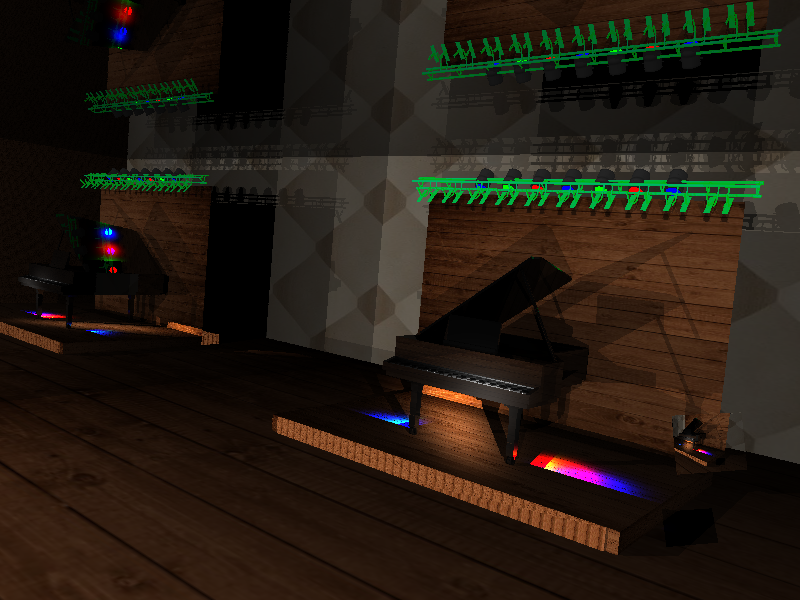
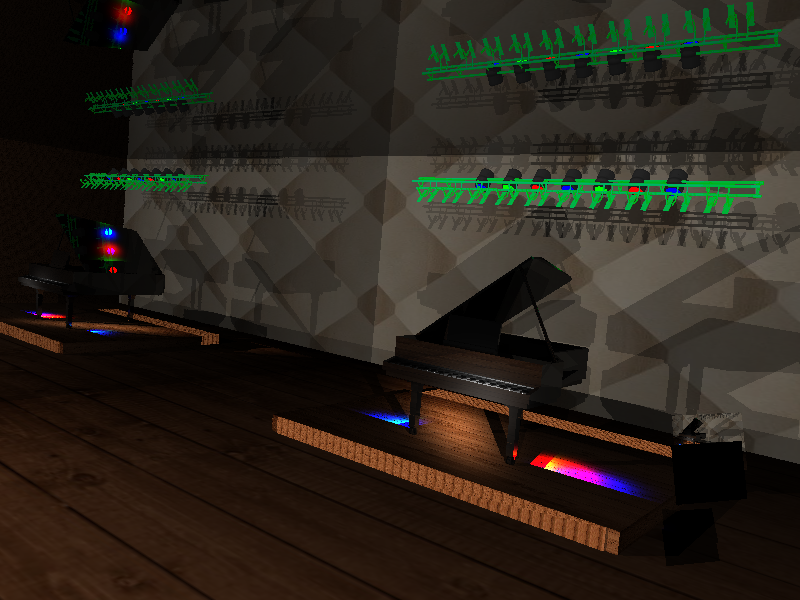
Curtain and backstage removed.

diff --git a/main/a_rendering_walls.cpp b/main/a_rendering_walls.cpp
@@ -117,11 +117,11 @@ void a_rendering_walls()
     FlatMaterial* woodtex_mat = new FlatMaterial(woodtex);
 
 	Point pianoCentre = Point(-15, 0, -70);
-	CombineMaterial* curtainMixedMat = new CombineMaterial();
-	ImageTexture* curtaintex = new ImageTexture("models/curtain_tex.png", ImageTexture::REPEAT, ImageTexture::BILINEAR);
-    FlatMaterial* curtaintex_mat = new FlatMaterial(curtaintex);
-    curtainMixedMat->add(new FlatMaterial(curtaintex), .05);
-    curtainMixedMat->add(lamp_mat, .95);
+	//CombineMaterial* curtainMixedMat = new CombineMaterial();
+	//ImageTexture* curtaintex = new ImageTexture("models/curtain_tex.png", ImageTexture::REPEAT, ImageTexture::BILINEAR);
+ //   FlatMaterial* curtaintex_mat = new FlatMaterial(curtaintex);
+ //   curtainMixedMat->add(new FlatMaterial(blacktex1), .95);
+ //   curtainMixedMat->add(new LambertianMaterial(blacktex1, goldtex), .05);
 
 	float f = 1;
 	float cameraSizeX = 12;
@@ -137,6 +137,11 @@ void a_rendering_walls()
 
 	Material* camera_mat = new CameraLCDmaterial(sceneCameraCentre, sceneCameraLeftCorner, sceneCameraForwardVector, sceneCameraUpVector.normalize(), pi / 4, pi / 3, cameraSizeX, cameraSizeY, f);
 	Quad* cameraQuad = new Quad(sceneCameraLeftCorner, sceneCameraUpVector, sceneCameraRightVector, nullptr, camera_mat);
+
+	Point cameraBoxLeftCorner = sceneCameraLeftCorner - sceneCameraUpVector * 0.5 - sceneCameraRightVector.normalize() * 0.5;
+	FlatMaterial* cameraMaterial = new FlatMaterial(blacktex1);
+
+	Quad* cameraBox = new Quad(cameraBoxLeftCorner + sceneCameraForwardVector * 0.01, sceneCameraUpVector, sceneCameraRightVector, nullptr, cameraMaterial);
 
     // Material* mat_stones = new MirrorMaterial(0.0f, 0.0f);
 
@@ -174,7 +179,7 @@ void a_rendering_walls()
     matlib->insert(std::pair<std::string, Material*>("ground_mat", wall_mat)); 
 	matlib->insert(std::pair<std::string, Material*>("light_mat", gray_mat));
     matlib->insert(std::pair<std::string, Material*>("specs_mat", &specsMirror));
-    matlib->insert(std::pair<std::string, Material*>("curtain_mat", curtainMixedMat));
+    // matlib->insert(std::pair<std::string, Material*>("curtain_mat", curtainMixedMat));
     matlib->insert(std::pair<std::string, Material*>("chair:Material_001", lamp_mat));
 
     BVH* scene = new BVH(false);
@@ -182,14 +187,17 @@ void a_rendering_walls()
     BVH* specs = new BVH(false);
     BVH* chair = new BVH(false);
     
-    loadOBJ(scene, "models/", "1_piano_stage.obj", matlib);
-    //loadOBJ(scene, "models/", "1_piano_curtain.obj", matlib);
+    loadOBJ(scene, "models/", "1_piano.obj", matlib);
+    // loadOBJ(scene, "models/", "1_piano_curtain.obj", matlib);
+	// loadOBJ(scene, "models/", "1_curtain.obj", matlib);
     loadOBJ(lightObj, "models/", "1_light_object.obj", matlib);
     loadOBJ(specs, "models/", "1_specs_mirror.obj", matlib);
     loadOBJ(chair, "models/", "1_chair.obj", matlib);
 	lightObj->rebuildIndex();
     chair->rebuildIndex();
 	scene->add(cameraQuad);
+	scene->add(cameraBox);
+	// scene->add(chair);
     // specs->rebuildIndex();
     // scene->add(specs); //uncomment for specs
     // make instance etc
@@ -246,8 +254,8 @@ void a_rendering_walls()
     Point w2(42, 113, 80);
 
     //back stage wall TODO uncomment this later
-     scene->add(new Triangle(bs1, bs2, w1, bottomleft, &woodMaterial));
-     scene->add(new Triangle(w2, bs2, w1, topright, &woodMaterial));
+     //scene->add(new Triangle(bs1, bs2, w1, bottomleft, &woodMaterial));
+     //scene->add(new Triangle(w2, bs2, w1, topright, &woodMaterial));
 
     //stage front 
     scene->add(new Triangle(fs3, fs4, fs1, bottomleft, &woodMaterial));
